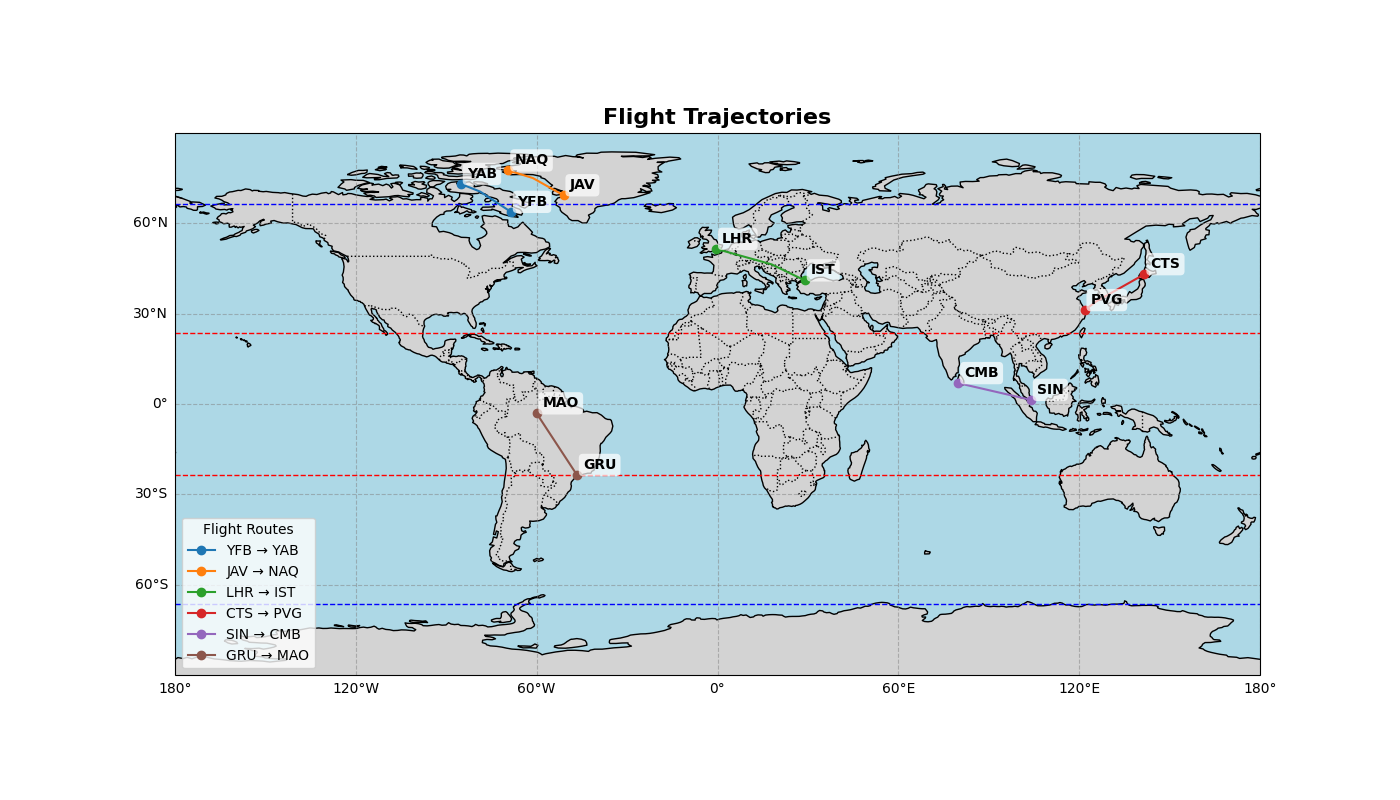
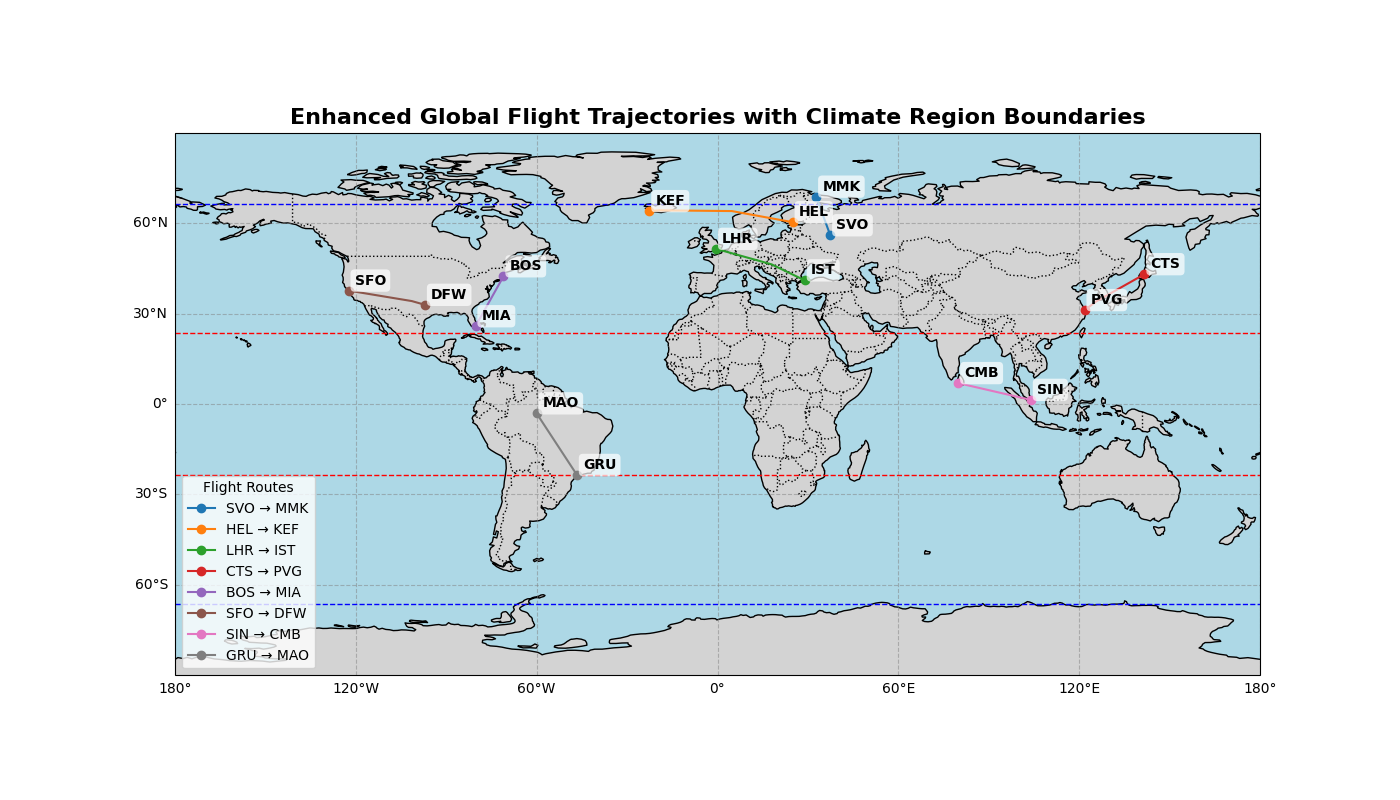
flight trjaectories

diff --git a/flight_trajectory_map.py b/flight_trajectory_map.py
@@ -5,12 +5,14 @@ from cartopy.mpl.ticker import LongitudeFormatter, LatitudeFormatter
 
 # Define flight trajectories
 flight_trajectories = {
-    "YFB → YAB": [(-68.5568, 63.7506), (-85.1511, 73.0056)],  # Iqaluit to Arctic Bay
-    "JAV → NAQ": [(-51.0694, 69.2433), (-69.3856, 77.4889)],  # Ilulissat to Qaanaaq
+    "SVO → MMK": [(37.4146, 55.9726), (32.7645, 68.7817)],   # Moscow to Murmansk
+    "HEL → KEF": [(24.9633, 60.3172), (-22.6056, 63.9850)],  # Helsinki to Reykjavik
     "LHR → IST": [(-0.4543, 51.4700), (28.9760, 41.0082)],    # London to Istanbul
     "CTS → PVG": [(141.6703, 43.0642), (121.8052, 31.1434)],  # Sapporo to Shanghai
+    "BOS → MIA": [(-71.0052, 42.3656), (-80.2906, 25.7933)],  # Boston to Miami
+    "SFO → DFW": [(-122.3790, 37.6213), (-97.0381, 32.8998)],  # San Francisco to Dallas
     "SIN → CMB": [(103.9915, 1.3644), (79.8840, 6.9271)],    # Singapore to Colombo
-    "GRU → MAO": [(-46.6292, -23.5505), (-60.0217, -3.1019)], # São Paulo to Manaus
+    "GRU → MAO": [(-46.6292, -23.5505), (-60.0217, -3.1019)] # São Paulo to Manaus
 }
 
 # Create the map
@@ -43,10 +45,6 @@ for route, coords in flight_trajectories.items():
 
 # Add labels for key airports
 airport_labels = {
-    "YFB": (-68.5568, 63.7506),
-    "YAB": (-85.1511, 73.0056),
-    "JAV": (-51.0694, 69.2433),
-    "NAQ": (-69.3856, 77.4889),
     "LHR": (-0.4543, 51.4700),
     "IST": (28.9760, 41.0082),
     "CTS": (141.6703, 43.0642),
@@ -54,7 +52,15 @@ airport_labels = {
     "SIN": (103.9915, 1.3644),
     "CMB": (79.8840, 6.9271),
     "GRU": (-46.6292, -23.5505),
-    "MAO": (-60.0217, -3.1019)
+    "MAO": (-60.0217, -3.1019),
+    "SVO": (37.4146, 55.9726),
+    "MMK": (32.7645, 68.7817),
+    "HEL": (24.9633, 60.3172),
+    "KEF": (-22.6056, 63.9850),
+    "BOS": (-71.0052, 42.3656),
+    "MIA": (-80.2906, 25.7933),
+    "SFO": (-122.3790, 37.6213),
+    "DFW": (-97.0381, 32.8998)
 }
 for code, (lon, lat) in airport_labels.items():
     ax.text(lon + 2, lat + 2, code, transform=ccrs.PlateCarree(), fontsize=10, color="black", weight="bold",
@@ -62,7 +68,5 @@ for code, (lon, lat) in airport_labels.items():
 
 # Add legend and title
 ax.legend(loc='lower left', fontsize='medium', title="Flight Routes")
-ax.set_title("Flight Trajectories", fontsize=16, weight="bold")
-
-# Show the map
+ax.set_title("Enhanced Global Flight Trajectories with Climate Region Boundaries", fontsize=16, weight="bold")
 plt.savefig(f'figures/powerpoint/flight_trajectories.png', format='png')
